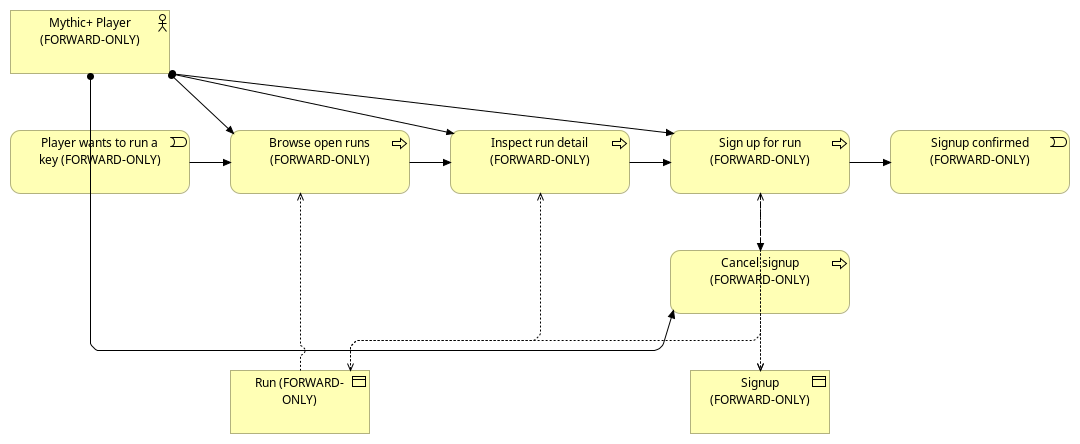
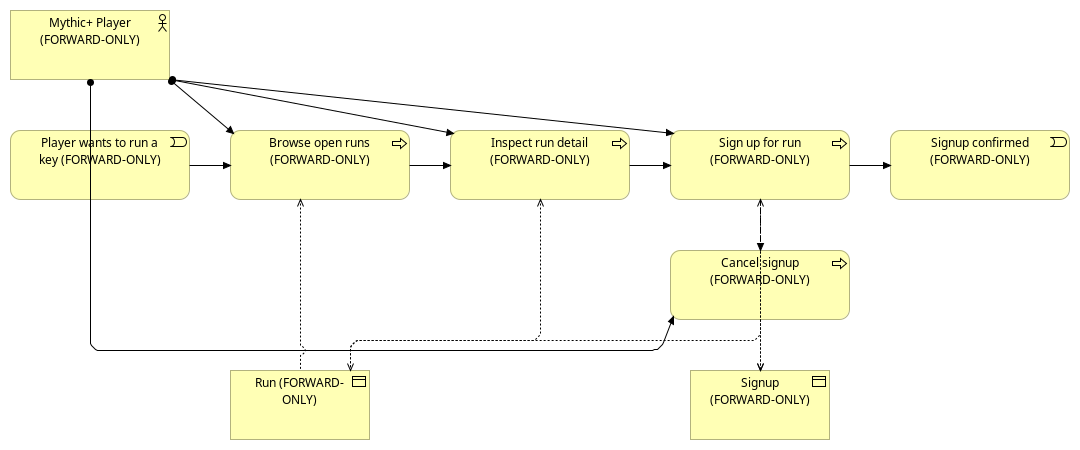
Refresh architecture renders

diff --git a/docs/architecture/README.md b/docs/architecture/README.md
@@ -13,8 +13,12 @@ The model was lifted from the repository's .NET solution, Bicep IaC, and GitHub 
 | 3 | Technology Security (MI + RBAC) | `Technology Usage` | [`id-view-technology-security.png`](renders/id-view-technology-security.png) |
 | 4 | Deployment Topology (single-environment) | `Migration` | [`id-view-migration.png`](renders/id-view-migration.png) |
 | 5 | Capability Map (FORWARD-ONLY scaffold) | `Capability Map` | [`id-view-capability-map.png`](renders/id-view-capability-map.png) |
-| 6 | Mythic+ Run Signup — Business Process Cooperation | `Business Process Cooperation` | [`id-view-business-processes.png`](renders/id-view-business-processes.png) |
-| 7 | Sign up for run — Service Realization (Process-rooted) | `Service Realization` | [`id-view-service-realization.png`](renders/id-view-service-realization.png) |
+| 6 | Motivation (FORWARD-ONLY scaffold) | `Motivation` | [`id-view-motivation.png`](renders/id-view-motivation.png) |
+| 7 | Mythic+ Run Signup — Business Process Cooperation | `Business Process Cooperation` | [`id-view-business-processes.png`](renders/id-view-business-processes.png) |
+| 8 | Browse open runs — Service Realization (Process-rooted) | `Service Realization` | [`id-view-sr-browse-runs.png`](renders/id-view-sr-browse-runs.png) |
+| 9 | Inspect run detail — Service Realization (Process-rooted) | `Service Realization` | [`id-view-sr-inspect-run.png`](renders/id-view-sr-inspect-run.png) |
+| 10 | Sign up for run — Service Realization (Process-rooted) | `Service Realization` | [`id-view-service-realization.png`](renders/id-view-service-realization.png) |
+| 11 | Cancel signup — Service Realization (Process-rooted) | `Service Realization` | [`id-view-sr-cancel-signup.png`](renders/id-view-sr-cancel-signup.png) |
 
 ### 1. Application Cooperation
 
@@ -26,13 +30,13 @@ LFM-internal vs Blizzard-external trust boundary, drawn explicitly with two `Gro
 
 ![Technology Realisation](renders/id-view-technology.png)
 
-The seven Azure resources (single resource group, single region) with their hosting + data-plane relationships: `Azure Static Web Apps` hosts `Lfm.App`; `Azure Function App` hosts `Lfm.Api` and consumes `Cosmos DB account` (Free Tier, `disableLocalAuth=true`), `Storage account` (Standard_LRS, `allowSharedKeyAccess=false`), and `Key Vault` (RBAC-authorized) as data-plane services; `Application Insights` is workspace-based, aggregated by `Log Analytics workspace`. App Service Plan SKU, Functions runtime version, container Artifacts, diagnostic-settings flows, and the Action Group + Cosmos throttle alert are tracked in the model but reserved for detail views.
+The Azure resources and data-plane artifacts (single resource group, single region) with their hosting + data-plane relationships: `Azure Static Web Apps` hosts `Lfm.App`; `Azure Function App` hosts `Lfm.Api` on an App Service Plan using the committed Y1 Dynamic SKU and consumes `Cosmos DB account` (Free Tier, `disableLocalAuth=true`), `Storage account` (Standard_LRS, `allowSharedKeyAccess=false`), and `Key Vault` (RBAC-authorized) as data-plane services; `Application Insights` is workspace-based, aggregated by `Log Analytics workspace`. The Cosmos SQL database Artifact, Functions runtime version, container Artifacts, diagnostic-settings flows, and the Action Group + Cosmos throttle alert are tracked in the model but reserved for detail views.
 
 ### 3. Technology Security (MI + RBAC)
 
 ![Technology Security](renders/id-view-technology-security.png)
 
-How `Lfm.Api` authenticates to every data-plane resource. The Function App carries a system-assigned managed identity (no client secrets, no shared keys). The MI is granted six data-plane RBAC roles in [`infra/modules/functions.bicep`](../../infra/modules/functions.bicep): **Key Vault Secrets User** on the Vault, **Cosmos DB Built-in Data Contributor** on the account, **Storage Blob Data Owner** + **Queue Data Contributor** + **Table Data Contributor** on the account, **Monitoring Metrics Publisher** on Application Insights (the last is required because App Insights has `DisableLocalAuth=true`). Cosmos `disableLocalAuth=true` and Storage `allowSharedKeyAccess=false` make RBAC the **only** authentication path — every Access edge from MI represents a role-assignment that must exist for the corresponding outbound call to succeed.
+How `Lfm.Api` authenticates to every data-plane resource. The Function App carries a system-assigned managed identity (no client secrets, no shared keys). The MI is granted six baseline data-plane RBAC roles in [`infra/modules/functions.bicep`](../../infra/modules/functions.bicep): **Key Vault Secrets User** on the Vault, **Cosmos DB Built-in Data Contributor** on the account, **Storage Blob Data Owner** + **Queue Data Contributor** + **Table Data Contributor** on the account, **Monitoring Metrics Publisher** on Application Insights (the last is required because App Insights has `DisableLocalAuth=true`). [`infra/modules/dataprotection.bicep`](../../infra/modules/dataprotection.bicep) adds the Data Protection-specific **Key Vault Crypto User** and **Storage Blob Data Contributor** grants for the encrypted key ring. Cosmos `disableLocalAuth=true` and Storage `allowSharedKeyAccess=false` make RBAC the **only** authentication path — every Access edge from MI represents a role-assignment that must exist for the corresponding outbound call to succeed.
 
 ### 4. Deployment Topology (single-environment)
 
@@ -44,19 +48,43 @@ CI/CD release path lifted from [`.github/workflows/`](../../.github/workflows/).
 
 ![Capability Map](renders/id-view-capability-map.png)
 
-Three-row realisation chain for the architect to iterate on: real **Application Services** (lifted from `api/Functions/*`) → forward-only **Business Services** (suggestive labels inferred from the API surface) → forward-only **Strategy Capabilities** (architect to validate or rename). The three Capabilities ("Find a group for Mythic+", "Guild roster management", "Personal character portfolio") are placeholders — they have not been validated against business stakeholders and are likely incomplete (no Account / Authentication capability is stubbed yet, no Stakeholders or Drivers / Goals tie back to Motivation).
+Three-row realisation chain for the architect to iterate on: real **Application Services** (lifted from `api/Functions/*`) → forward-only **Business Services** (suggestive labels inferred from the API surface) → forward-only **Strategy Capabilities** (architect to validate or rename). The three Capabilities ("Find a group for Mythic+", "Guild roster management", "Personal character portfolio") are placeholders — they have not been validated against business stakeholders and are likely incomplete (no Account / Authentication capability is stubbed yet, no Stakeholders are modeled, and the Motivation layer is only a minimal run-signup seed rather than a full capability rationale).
 
-### 6. Mythic+ Run Signup — Business Process Cooperation (FORWARD-ONLY)
+### 6. Motivation (FORWARD-ONLY scaffold)
+
+![Motivation](renders/id-view-motivation.png)
+
+Forward-only seed for the "why" behind the run-signup capability. It connects the inferred `Mythic+ group-finding friction` Driver to the inferred `Frictionless raid signup` Goal. Both elements are placeholders derived from the current product surface, not validated stakeholder intent; the architect should replace or refine them before using the view as governance evidence.
+
+### 7. Mythic+ Run Signup — Business Process Cooperation (FORWARD-ONLY)
 
 ![Business Process Cooperation](renders/id-view-business-processes.png)
 
 §9.7 Business Process Cooperation view of the user-driven "Sign up for Mythic+ run" flow. **Active structure** (top): a `Mythic+ Player` Business Actor Assigned to every user-driven Behaviour. **Behaviour** (middle, left-to-right Triggering chain): an entry `Player wants to run a key` Business Event → `Browse open runs` (realised by `RunsListFunction`) → `Inspect run detail` (`RunsDetailFunction`) → `Sign up for run` (`RunsSignupFunction`) → terminal `Signup confirmed` Business Event; an alt-path Flow from `Sign up for run` to `Cancel signup` (`RunsCancelSignupFunction`). **Passive structure** (bottom): `Run` and `Signup` Business Objects, Accessed by the Behaviour steps that read or write them. Every Process / Event / Object carries `(FORWARD-ONLY)` in its display name — LFM has no Durable Functions orchestrators or Logic Apps, so this chain is architect-authored rather than lifted (per architecture-design `references/procedures/lifting-rules-process.md`). Names and chain shape have **not** been validated against business stakeholders.
 
-### 7. Sign up for run — Service Realization (Process-rooted)
+### 8. Browse open runs — Service Realization (Process-rooted)
+
+![Browse open runs Service Realization](renders/id-view-sr-browse-runs.png)
+
+§9.3 Service Realization drill-down for the `Browse open runs` Business Process. The forward-only Business Process is realised by the real `Mythic+ Runs` Application Service, implemented by `Lfm.Api`, hosted on `Azure Function App`, and served by `Azure Cosmos DB account` on the data plane. The user-driven entry point is the UI Application Component [`app/Pages/RunsPage.razor`](../../app/Pages/RunsPage.razor) exposing the `/runs` Application Interface.
+
+### 9. Inspect run detail — Service Realization (Process-rooted)
+
+![Inspect run detail Service Realization](renders/id-view-sr-inspect-run.png)
+
+§9.3 Service Realization drill-down for the `Inspect run detail` Business Process. The forward-only process is realised by the same real `Mythic+ Runs` Application Service and `Lfm.Api` component, hosted on `Azure Function App`, with `Azure Cosmos DB account` serving the run-detail read path. The user-driven entry point is [`app/Pages/RunsPage.razor`](../../app/Pages/RunsPage.razor) exposing the `/runs/{RunId}` Application Interface.
+
+### 10. Sign up for run — Service Realization (Process-rooted)
 
 ![Service Realization](renders/id-view-service-realization.png)
 
 §9.3 Service Realization view, Process-rooted modality. The Business Process `Sign up for run` (top, FORWARD-ONLY) drills down through `Mythic+ Runs` Application Service → `Lfm.Api` Application Component → `Azure Function App` Technology Node, with `Azure Cosmos DB account` serving the Function App on the data plane. Per the §9.3 Blazor idiom, the user-driven entry point is the UI Application Component `app/Pages/RunsPage.razor` exposing the `/runs/{RunId}` Application Interface; the UI Component carries a Realisation edge to the Business Process. This view satisfies the AD-B-6 / AD-B-7 / AD-B-8 / AD-B-9 / AD-B-10 between-view invariants for the §9.7 Business Process Cooperation view (sibling).
+
+### 11. Cancel signup — Service Realization (Process-rooted)
+
+![Cancel signup Service Realization](renders/id-view-sr-cancel-signup.png)
+
+§9.3 Service Realization drill-down for the `Cancel signup` alternate-path Business Process. The process is realised by `Mythic+ Runs` through `Lfm.Api` on `Azure Function App`, with `Azure Cosmos DB account` serving the signup mutation path. The user-driven entry point remains [`app/Pages/RunsPage.razor`](../../app/Pages/RunsPage.razor) and the `/runs/{RunId}` Application Interface, matching the sibling cooperation view's alt-path Flow.
 
 ## Forward-only scope
 
@@ -82,11 +110,13 @@ cp .cache/archi-views/lfm/*.png docs/architecture/renders/
 
 The script writes to `.cache/archi-views/<stem>/` (gitignored); copy the outputs over `docs/architecture/renders/` to update the committed snapshots. Requirements: an `Archi` binary at `$HOME/.local/bin/Archi` (override via `$ARCHI_BIN`), `xmllint`, and an `$DISPLAY` (use `xvfb-run` on pure Wayland without Xwayland). The script is concurrent-safe and exits non-zero on any failure (XML well-formedness, Archi import, missing PNGs).
 
+When `*.oef.xml` changes, regenerate and commit the corresponding files in [`renders/`](renders/) as part of the same architecture update; update this README whenever the view inventory, names, or source provenance changes.
+
 ## Source provenance
 
 | ArchiMate Layer | Lifted from |
 |---|---|
-| Application | [`lfm.sln`](../../lfm.sln), [`api/Lfm.Api.csproj`](../../api/Lfm.Api.csproj), [`app/Lfm.App.csproj`](../../app/Lfm.App.csproj), [`app/Lfm.App.Core/Lfm.App.Core.csproj`](../../app/Lfm.App.Core/Lfm.App.Core.csproj), [`shared/Lfm.Contracts/Lfm.Contracts.csproj`](../../shared/Lfm.Contracts/Lfm.Contracts.csproj), [`api/host.json`](../../api/host.json), [`api/Program.cs`](../../api/Program.cs), [`api/Functions/`](../../api/Functions/), [`app/wwwroot/staticwebapp.config.json`](../../app/wwwroot/staticwebapp.config.json) |
+| Application | [`lfm.sln`](../../lfm.sln), [`api/Lfm.Api.csproj`](../../api/Lfm.Api.csproj), [`app/Lfm.App.csproj`](../../app/Lfm.App.csproj), [`app/Lfm.App.Core/Lfm.App.Core.csproj`](../../app/Lfm.App.Core/Lfm.App.Core.csproj), [`shared/Lfm.Contracts/Lfm.Contracts.csproj`](../../shared/Lfm.Contracts/Lfm.Contracts.csproj), [`api/host.json`](../../api/host.json), [`api/Program.cs`](../../api/Program.cs), [`api/Functions/`](../../api/Functions/), [`app/wwwroot/staticwebapp.config.json.template`](../../app/wwwroot/staticwebapp.config.json.template) |
 | Technology | [`infra/main.bicep`](../../infra/main.bicep) + [`infra/modules/`](../../infra/modules/) (8 modules: cosmos, storage, functions, keyvault, swa, loganalytics, alerts, dataprotection) |
 | Implementation & Migration | [`.github/workflows/`](../../.github/workflows/) (12 workflows: ci, deploy, deploy-infra, deploy-app-build, deploy-app, e2e, analyze-infra, secrets-scan, license-compliance, dep-license-check, stryker-nightly, dependabot-auto-merge) |
 | Strategy / Business / Motivation | **FORWARD-ONLY** — architect-authored placeholders |
